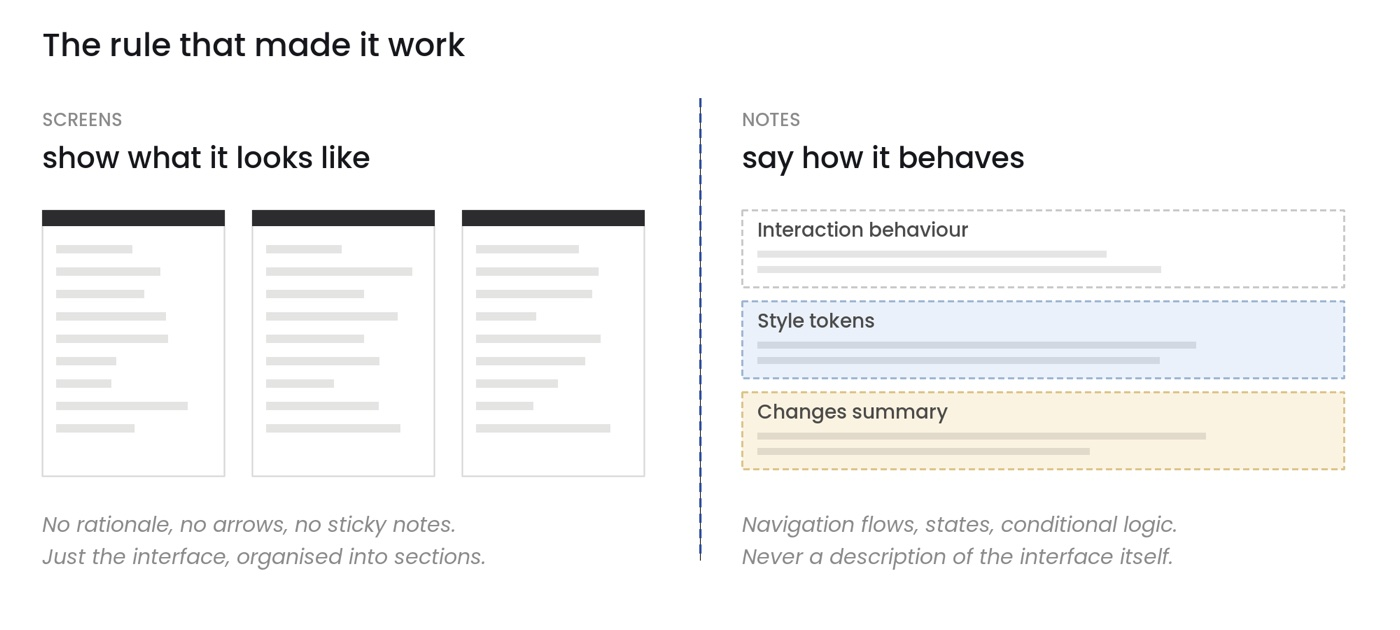
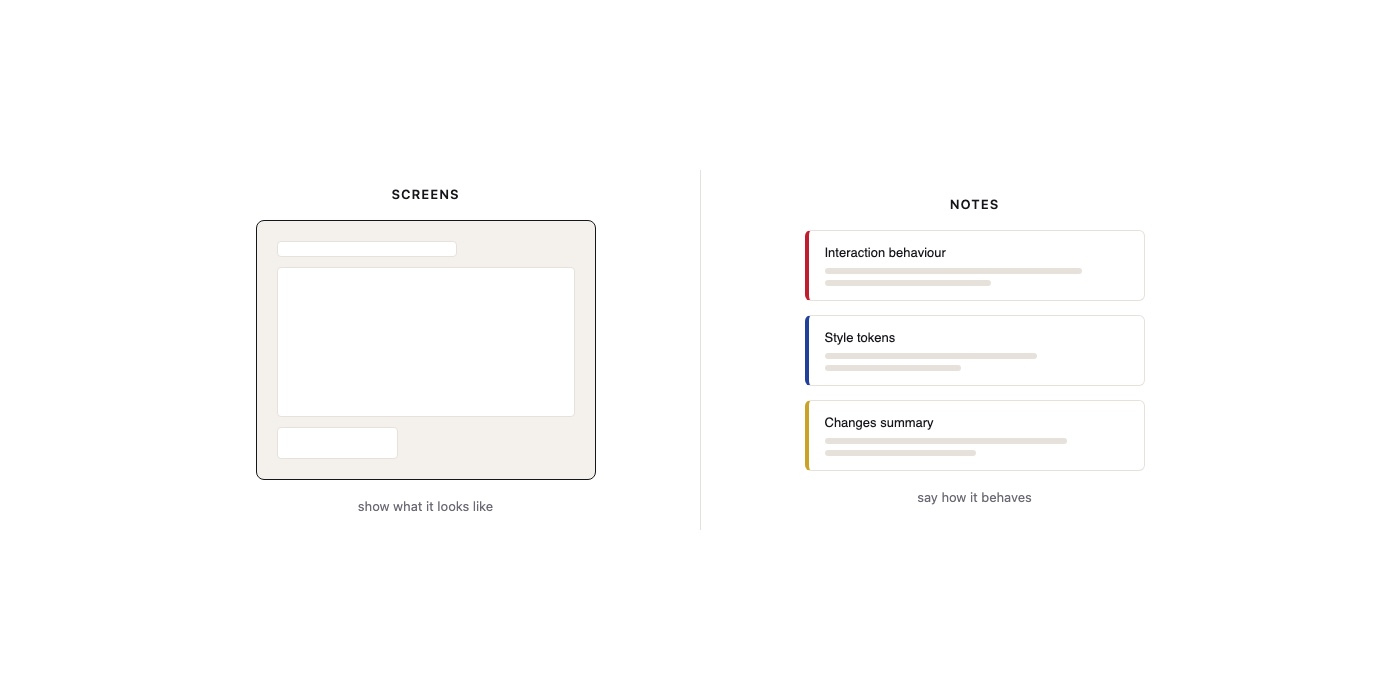
Round 4: real Ericsson diagrams, sticky-media layout, case nav, About photo collage, WCAG fixes
Redraws the five Ericsson case diagrams from scratch on-brand (Jost/Inter,
red/blue/gold tokens) via the Design skill, replacing generic AI-wireframe
placeholders. Adds a pure-CSS sticky companion column (.two-col.sticky-media)
across all three case studies so text stays in one column while the paired
image sticks and hands off between sections, rather than alternating sides.
Adds real in-page anchor navigation for the three Ericsson cases. Rebuilds
the About page hero with all three real photos in a playful overlapping
collage plus blue/red accent shapes, replacing the single-photo, colourless
version. Fixes form-field border contrast to clear WCAG 1.4.11 and corrects
an overcautious blanket statement in DESIGN-SYSTEM.md about accent colours
as text.

diff --git a/work/ericsson.html b/work/ericsson.html
@@ -69,6 +69,12 @@
 
   <blockquote class="pull">Three cases I'm proud of: making our design deliveries AI-readable, getting design and development to build together, and a generative UI proposal for data-dense dashboards.</blockquote>
 
+  <nav class="hero-links" aria-label="Jump to a case">
+    <a class="btn btn-outline" href="#case-1">Case 1 &middot; AI-ready deliveries</a>
+    <a class="btn btn-outline" href="#case-2">Case 2 &middot; Build better together</a>
+    <a class="btn btn-outline" href="#case-3">Case 3 &middot; Generative UI</a>
+  </nav>
+
   <h2>The context</h2>
   <p>Private 5G software is dense. A lot of state, a lot of configuration, a lot of things that go wrong in ways only an expert would recognise. The interesting part of the job was rarely the screen itself. It was working out what a network engineer actually needs to see at the moment they look.</p>
   <p>Most of what I'm proudest of ended up being about the space between design and engineering, rather than the design on its own.</p>
@@ -76,11 +82,11 @@
 
 <section class="section">
   <div class="wrap col">
-    <h2 class="mt-0">Case 1 &middot; Making our Figma deliveries AI-readable</h2>
+    <h2 class="mt-0" id="case-1">Case 1 &middot; Making our Figma deliveries AI-readable</h2>
     <p>One line: our developers used AI to turn Figma into code, but it kept building the annotations instead of the interface, so I built a way to fix that.</p>
   </div>
   <div class="breakout">
-    <div class="two-col">
+    <div class="two-col sticky-media">
       <div>
         <h3 class="mt-0">The problem</h3>
         <p>Developers in our organisation were using AI agents to generate UI code straight from the UX team's Figma files. The files were built for humans: screens buried under sticky notes, arrows, colour overlays, design rationale sitting right on top of the interface.</p>
@@ -90,7 +96,7 @@
       <figure class="mt-0">
         <picture>
           <source srcset="/images/ericsson/case1-before-after.webp" type="image/webp">
-          <img src="/images/ericsson/case1-before-after.jpg" width="1400" height="798" alt="Abstract before-and-after diagram. Left: a cluttered canvas of screens buried under overlapping note blocks and arrows. Right: an ordered canvas with clean screens in labelled sections and three tidy spec blocks." loading="lazy">
+          <img src="/images/ericsson/case1-before-after.jpg" width="1400" height="750" alt="Abstract before-and-after diagram. Left: a cluttered canvas of screens buried under overlapping coloured note blocks and crossing arrows. Right: an ordered canvas with clean screens grouped into labelled sections, and a separate column of three tidy notes in red, blue and gold." loading="lazy">
         </picture>
         <figcaption>Redrawn abstractly to stay NDA-safe: no real screens or product text.</figcaption>
       </figure>
@@ -103,7 +109,7 @@
     <p>I also needed a way to say how bad our files were, so I put together a small audit framework: five dimensions, scored out of ten. It is my own framework rather than an industry standard, but it meant we could talk about a file being more or less AI-ready instead of just &ldquo;messy&rdquo;.</p>
   </div>
   <div class="breakout">
-    <div class="two-col">
+    <div class="two-col sticky-media">
       <div>
         <h3 class="mt-0">The tool</h3>
         <p>I built a Kiro skill called <strong>delivery-for-ai</strong>. You point it at a polish page and it produces a clean, AI-readable delivery page in the same file.</p>
@@ -113,7 +119,7 @@
       <figure class="mt-0">
         <picture>
           <source srcset="/images/ericsson/case1-the-rule.webp" type="image/webp">
-          <img src="/images/ericsson/case1-the-rule.jpg" width="1400" height="630" alt="Diagram of the delivery-for-ai structure: clean screens on one side, and three labelled note types, interaction behaviour, style tokens, and a changes summary, on the other." loading="lazy">
+          <img src="/images/ericsson/case1-the-rule.jpg" width="1400" height="700" alt="Diagram of the delivery-for-ai structure: a labelled 'screens' panel captioned 'show what it looks like' on the left, and a labelled 'notes' panel of three cards, interaction behaviour, style tokens, and a changes summary, captioned 'say how it behaves' on the right." loading="lazy">
         </picture>
       </figure>
     </div>
@@ -133,7 +139,7 @@
 
 <section class="section section-alt">
   <div class="wrap col">
-    <h2 class="mt-0">Case 2 &middot; Build better together</h2>
+    <h2 class="mt-0" id="case-2">Case 2 &middot; Build better together</h2>
     <p>One line: design and development kept working in sequence instead of together, so Frida Edstam and I put together a set of methods people could start using the next morning, and gave a talk about it at the Ericsson Developer Conference.</p>
 
     <h3>The handoff trap</h3>
@@ -163,7 +169,7 @@
   </div>
 
   <div class="breakout">
-    <div class="two-col">
+    <div class="two-col sticky-media">
       <div>
         <h3 class="mt-0">Four habits for the rest of the week</h3>
         <p>Workshops are the easy part. None of it sticks unless the ordinary days change too: public channels instead of DMs, mini demos the moment something is visual, a habit of inviting one person from another discipline into your next session, and a dedicated UX improvements channel anyone can report into.</p>
@@ -193,7 +199,7 @@
 
 <section class="section">
   <div class="wrap col">
-    <h2 class="mt-0">Case 3 &middot; Generative UI for data-dense dashboards</h2>
+    <h2 class="mt-0" id="case-3">Case 3 &middot; Generative UI for data-dense dashboards</h2>
     <p>One line: a hackathon project on dashboards that assemble themselves from context, and what building it taught me about where UX is going.</p>
     <p class="fs-small"><strong>Credit where it's due:</strong> this was a Tweak Week team project with three other designers and a front-end developer. My part was the card component, the specs, the prototype and the proposal.</p>
 
@@ -202,7 +208,7 @@
 
   </div>
   <div class="breakout">
-    <div class="two-col">
+    <div class="two-col sticky-media">
       <div>
         <h3 class="mt-0">Fix the foundation first</h3>
         <p>Before anything clever, the card had to work. It was a fixed-size box that broke the moment a layout became dynamic, and it limited what data we could show at all.</p>
@@ -211,7 +217,7 @@
       <figure class="mt-0">
         <picture>
           <source srcset="/images/ericsson/case3-card.webp" type="image/webp">
-          <img src="/images/ericsson/case3-card.jpg" width="1000" height="450" alt="Abstract diagram comparing a fixed-size card, which breaks under a dynamic layout, to a flexible, content-driven card that adapts to any width." loading="lazy">
+          <img src="/images/ericsson/case3-card.jpg" width="1000" height="450" alt="Abstract diagram comparing a red-topped fixed-size card, captioned 'breaks the moment content changes', to three blue-topped flexible cards of increasing size, captioned 'responds to whatever width it's given'." loading="lazy">
         </picture>
       </figure>
     </div>
@@ -227,7 +233,7 @@
     <p>Across the industry guidance the same principles kept coming back: design for outcomes rather than screens, keep containers consistent, let AI suggest and humans approve, and always show where the data came from and how fresh it is.</p>
   </div>
   <div class="breakout">
-    <div class="two-col">
+    <div class="two-col sticky-media">
       <div>
         <h3 class="mt-0">The proposal</h3>
         <p>An assistant and a canvas. Roughly 30% steering panel, 70% canvas.</p>
@@ -237,13 +243,13 @@
       <figure class="mt-0">
         <picture>
           <source srcset="/images/ericsson/case3-assistant-canvas.webp" type="image/webp">
-          <img src="/images/ericsson/case3-assistant-canvas.jpg" width="1400" height="616" alt="Abstract diagram of a narrow assistant panel next to a large canvas of content cards that assemble themselves from context." loading="lazy">
+          <img src="/images/ericsson/case3-assistant-canvas.jpg" width="1400" height="620" alt="Abstract diagram of a gold assistant panel with chat bubbles on the left, roughly 30% width, beside a larger canvas of content cards in a bento grid, some flagged with a blue or red top border, on the right." loading="lazy">
         </picture>
       </figure>
     </div>
   </div>
   <div class="breakout">
-    <div class="two-col">
+    <div class="two-col sticky-media">
       <div>
         <h3 class="mt-0">Building it</h3>
         <p>We built a flexible card component in Figma, wrote the component specs in markdown and versioned them in GitLab, then generated a working HTML prototype straight from those specs to check they held up. A front-end developer adapted the real component from the same specs, and a back-end team in the US used it to display live data and graphs. Then we shared what we found with other teams.</p>
@@ -251,7 +257,7 @@
       <figure class="mt-0">
         <picture>
           <source srcset="/images/ericsson/case3-spec-to-code.webp" type="image/webp">
-          <img src="/images/ericsson/case3-spec-to-code.jpg" width="1400" height="434" alt="Abstract flow diagram: a component in a design tool, a written spec in version control, a generated prototype, and a real front-end component wired to live data." loading="lazy">
+          <img src="/images/ericsson/case3-spec-to-code.jpg" width="1400" height="420" alt="Abstract flow diagram of four steps connected by arrows: a component in Figma, a versioned spec document, a generated prototype, and a live component marked with a red dot for real data." loading="lazy">
         </picture>
       </figure>
     </div>

diff --git a/css/styles.css b/css/styles.css
@@ -118,6 +118,7 @@ h1, h2, h3 {
 h1 { font-size: var(--fs-h1); }
 h2 { font-size: var(--fs-h2); margin-top: var(--space-6); }
 h3 { font-size: var(--fs-h3); margin-top: var(--space-5); }
+h1, h2, h3 { scroll-margin-top: calc(72px + var(--space-4)); }
 
 p { max-width: var(--measure); text-align: left; }
 p + p { margin-top: var(--space-3); }
@@ -414,6 +415,23 @@ figcaption {
   .two-col { grid-template-columns: 1fr 1fr; }
 }
 
+/* Sticky companion column: text (first child) scrolls normally in one
+   consistent column; its media (second child) pins in place while this
+   section is in view, then hands off to the next section's own sticky
+   media as you scroll past — pure CSS, no JS. Used instead of repeating
+   full-width-text/half-width-two-col sections down a case-study page,
+   which reads as confusing column-switching. Text stays on the same side
+   throughout a page (no .flip here — that's a homepage-row-only choice). */
+@media (min-width: 768px) {
+  .two-col.sticky-media {
+    align-items: start;
+  }
+  .two-col.sticky-media > :last-child {
+    position: sticky;
+    top: calc(72px + var(--space-5));
+  }
+}
+
 /* Bento-style cluster of 2–4 images inside one side of a .two-col, matching
    the live Readymag case-study pages' text-column-plus-image-collage rhythm,
    without copying its freeform overlap: everything here stays grid-aligned
@@ -453,7 +471,7 @@ figcaption {
   .about-grid { grid-template-columns: 1fr 1fr; align-items: start; }
 }
 .entry { margin-bottom: var(--space-5); }
-.entry h3 { margin-bottom: var(--space-1); }
+.entry h3 { margin-bottom: var(--space-1); color: var(--blue); }
 .entry .meta { color: var(--muted); font-size: var(--fs-small); }
 .entry .detail { font-size: var(--fs-small); font-style: italic; color: var(--body); margin-top: var(--space-1); }
 .col-heading {
@@ -522,6 +540,76 @@ blockquote.pull cite {
 .quote-attribution {
   margin-top: var(--space-4);
   color: var(--muted);
+}
+
+/* ---------- Photo cluster (About page) ----------
+   A small collage of die-cut, transparent-background photos, leaning and
+   overlapping with a couple of accent circles behind them — echoing the
+   cutout-photo language already established on the Ericsson collage,
+   rather than inventing a new visual style. Desktop only positions things
+   absolutely; mobile collapses to a plain stack so nothing overlaps text
+   or another photo at narrow widths. */
+.photo-cluster {
+  position: relative;
+  width: 100%;
+  max-width: 420px;
+  height: 480px;
+  margin-inline: auto;
+}
+.photo-cluster .accent-shape {
+  position: absolute;
+  border-radius: 50%;
+  z-index: 0;
+}
+.photo-cluster .accent-shape.a-blue { background: var(--blue); width: 220px; height: 220px; right: -30px; bottom: 10px; }
+.photo-cluster .accent-shape.a-red { background: var(--red); width: 110px; height: 110px; left: -10px; top: 0; }
+.photo-cluster picture {
+  position: absolute;
+}
+.photo-cluster img {
+  width: 100%;
+  height: auto;
+  filter: drop-shadow(0 12px 20px rgba(22, 22, 26, 0.18));
+}
+.photo-cluster .photo-main {
+  z-index: 2;
+  top: 12%;
+  left: 30%;
+  width: 54%;
+  transform: rotate(-3deg);
+}
+.photo-cluster .photo-profile {
+  z-index: 1;
+  top: 0;
+  right: 2%;
+  width: 40%;
+  transform: rotate(5deg);
+}
+.photo-cluster .photo-armchair {
+  z-index: 3;
+  bottom: 2%;
+  left: -12%;
+  width: 56%;
+  transform: rotate(-6deg);
+}
+@media (max-width: 640px) {
+  .photo-cluster {
+    height: auto;
+    max-width: 320px;
+    display: flex;
+    flex-direction: column;
+    align-items: center;
+    gap: var(--space-4);
+  }
+  .photo-cluster .accent-shape { display: none; }
+  .photo-cluster picture {
+    position: static;
+  }
+  .photo-cluster img {
+    width: 70%;
+    margin-inline: auto;
+    transform: none;
+  }
 }
 
 /* ---------- Full-bleed breakout ----------
@@ -762,7 +850,9 @@ blockquote.pull cite {
 .form-field textarea {
   width: 100%;
   padding: var(--space-3);
-  border: 1px solid var(--hairline);
+  /* --muted, not --hairline: WCAG 1.4.11 wants 3:1 for an identifiable
+     UI boundary like a form field's edge — --hairline is only 1.29:1. */
+  border: 1px solid var(--muted);
   border-radius: var(--radius);
   background: var(--bg);
   font-size: var(--fs-body);

diff --git a/about.html b/about.html
@@ -44,17 +44,31 @@
 
 <main id="main">
 <section class="hero">
-  <div class="wrap col">
-    <h1>About</h1>
-    <p class="standfirst">Hi! I'm <strong>Nikos</strong>, a designer and researcher who came into design sideways, from engineering, and stayed for the human part of it.</p>
-    <p>I recently wrapped up a year as a <strong>UX Designer and Scrum Master</strong> at Ericsson in Gothenburg, working on dense private-5G software where the job was making genuinely complicated tools clear for expert users. Most of what I'm proudest of there sat between design and engineering: a tool I built that makes Figma files readable by AI coding agents, a set of co-creation methods I created and presented with a colleague at the Ericsson Developer Conference, and a generative UI proposal for data-dense dashboards. Before that I did a Master's in Interaction Design and Technologies at Chalmers, where my thesis turned into a museum installation that has been running in two Gothenburg museums since 2025.</p>
-    <p>I'm passionate about music, sound, light, and interfaces, and how they intersect with design to create immersive, emotional experiences. I like living in the in-between of design, technology, and human connection.</p>
-    <figure class="hero-figure portrait">
-      <picture>
-        <source srcset="/images/about/photo.webp" type="image/webp">
-        <img src="/images/about/photo.jpg" width="1200" height="1593" alt="Nikos laughing while holding an Ericofon rotary phone, the same model at the centre of his Don't Be a Stranger installation." loading="eager">
-      </picture>
-    </figure>
+  <div class="wrap">
+    <div class="two-col">
+      <div class="col">
+        <h1>About</h1>
+        <p class="standfirst">Hi! I'm <strong>Nikos</strong>, a designer and researcher who came into design sideways, from engineering, and stayed for the human part of it.</p>
+        <p>I recently wrapped up a year as a <strong>UX Designer and Scrum Master</strong> at Ericsson in Gothenburg, working on dense private-5G software where the job was making genuinely complicated tools clear for expert users. Most of what I'm proudest of there sat between design and engineering: a tool I built that makes Figma files readable by AI coding agents, a set of co-creation methods I created and presented with a colleague at the Ericsson Developer Conference, and a generative UI proposal for data-dense dashboards. Before that I did a Master's in Interaction Design and Technologies at Chalmers, where my thesis turned into a museum installation that has been running in two Gothenburg museums since 2025.</p>
+        <p>I'm passionate about music, sound, light, and interfaces, and how they intersect with design to create immersive, emotional experiences. I like living in the in-between of design, technology, and human connection.</p>
+      </div>
+      <div class="photo-cluster">
+        <div class="accent-shape a-blue" aria-hidden="true"></div>
+        <div class="accent-shape a-red" aria-hidden="true"></div>
+        <picture class="photo-profile">
+          <source srcset="/images/about/photo-profile.webp" type="image/webp">
+          <img src="/images/about/photo-profile.png" width="800" height="914" alt="A side profile photo of Nikos with a lanyard, cut out against a transparent background." loading="eager">
+        </picture>
+        <picture class="photo-armchair">
+          <source srcset="/images/about/photo-armchair.webp" type="image/webp">
+          <img src="/images/about/photo-armchair.png" width="706" height="493" alt="Nikos sitting in a vintage armchair beside an old television cabinet, cut out against a transparent background." loading="eager">
+        </picture>
+        <picture class="photo-main">
+          <source srcset="/images/about/photo.webp" type="image/webp">
+          <img src="/images/about/photo.png" width="1200" height="1593" alt="Nikos laughing while holding an Ericofon rotary phone, the same model at the centre of his Don't Be a Stranger installation." loading="eager">
+        </picture>
+      </div>
+    </div>
   </div>
 </section>
 

diff --git a/work/dont-be-a-stranger.html b/work/dont-be-a-stranger.html
@@ -71,7 +71,7 @@
 
 <section class="section">
   <div class="breakout">
-    <div class="two-col">
+    <div class="two-col sticky-media">
       <div class="col">
         <h2 class="mt-0">The idea</h2>
         <p>Pick up the phone in one museum and you are suddenly talking, right now, with a stranger standing in the other one. No screens, no profiles, no matching. Just a voice, and the small act of dialling and waiting for someone to answer.</p>
@@ -110,7 +110,7 @@
 
 <section class="section section-alt">
   <div class="breakout">
-    <div class="two-col">
+    <div class="two-col sticky-media">
       <div>
         <h2 class="mt-0">The question</h2>
         <p>We message people on the other side of the world without thinking about it, and somewhere in there the act of reaching out lost its weight. Museums have the opposite problem: they spend a lot of effort telling you to look and not touch.</p>
@@ -184,7 +184,7 @@
   </div>
 
   <div class="breakout">
-    <div class="two-col">
+    <div class="two-col sticky-media">
       <div>
         <h3 class="mt-0">Give permission</h3>
         <p>Warm, co-designed signage and instructions, Rolodex prompt cards so people know what to say, placement that's visible but a little sheltered.</p>
@@ -198,7 +198,7 @@
   </div>
 
   <div class="breakout" style="margin-top: var(--space-6)">
-    <div class="two-col">
+    <div class="two-col sticky-media">
       <div>
         <h3 class="mt-0">Fine-tune friction</h3>
         <p>Keep the weight, the dial, the wait, on purpose, because the ritual is what makes it meaningful. Then scaffold it with voice-only anonymity, prompts and clear instructions, all tuned by testing.</p>
@@ -211,7 +211,7 @@
   </div>
 
   <div class="breakout" style="margin-top: var(--space-6)">
-    <div class="two-col">
+    <div class="two-col sticky-media">
       <div>
         <h3 class="mt-0">Lead and align</h3>
         <p>Tailored pitches and co-design sessions so each stakeholder shaped their own piece rather than reviewing mine.</p>

diff --git a/work/ewp-dashboard.html b/work/ewp-dashboard.html
@@ -70,7 +70,7 @@
 
 <section class="section">
   <div class="wrap">
-    <div class="two-col">
+    <div class="two-col sticky-media">
       <div>
         <h2 class="mt-0">The problem</h2>
         <p>The EWP Dashboard is a tool higher education institutions across Europe use to manage Erasmus+ mobility students. The previous version had significant usability issues, a major barrier for hundreds of institutions relying on it. As my first large-scale UI/UX project, I took on redesigning the app to improve the experience, establish a cohesive visual identity, and lead the development process.</p>
@@ -86,7 +86,7 @@
   </div>
 
   <div class="wrap">
-    <div class="two-col">
+    <div class="two-col sticky-media">
       <div>
         <h2 class="mt-0">What I did</h2>
         <h3>User research</h3>
@@ -103,7 +103,7 @@
   </div>
 
   <div class="breakout">
-    <div class="two-col">
+    <div class="two-col sticky-media">
       <div>
         <h3 class="mt-0">Design system &amp; visual identity</h3>
         <p>I built a design system, based on Bootstrap, as the foundation for the new interface: a type scale, a button system with every interaction state (active, hover, click, disabled), and a consistent icon set, so the same components behaved the same way everywhere. I also designed the visual identity, including the logo, refreshing the app from a plain placeholder mark to a proper brand.</p>

diff --git a/DESIGN-SYSTEM.md b/DESIGN-SYSTEM.md
@@ -19,11 +19,15 @@ CSS, each with a darker "-ink" sibling for use as text:
 | `--gold` | `#C9A227` | Decorative only: pill fills, borders, large numerals |
 | `--gold-ink` | `#7A5E13` | Gold at text size (the "Industry / School / Research" eyebrow labels) |
 
-**Why two shades of each colour:** the bright versions, especially gold,
-fail WCAG AA contrast (4.5:1) against the page background at body/small
-text sizes. Never use `--red`, `--blue` or `--gold` directly as text colour;
-use the `-ink` variant. The bright versions are for anything large,
-decorative, or non-text: borders, fills, big numerals, hover-line strokes.
+**Why two shades of each colour:** computed contrast against `--bg`
+(#FFFFFF) for every token: `--red` 6.15:1, `--blue` 9.27:1, `--gold` 2.42:1.
+Only `--gold` actually fails WCAG AA (4.5:1) as text — bright `--red` and
+`--blue` already pass on their own and are used directly as text in a few
+places (project titles, inline links). Use `--gold-ink` whenever gold needs
+to carry text (it's the one real requirement here); the `-ink` variants of
+red/blue exist for extra margin at small sizes or on `--paper`/`--bg-alt`,
+not because the bright versions are unsafe. `--gold` itself stays
+decorative-only: pill fills, borders, large numerals, never text.
 
 Neutrals:
 
